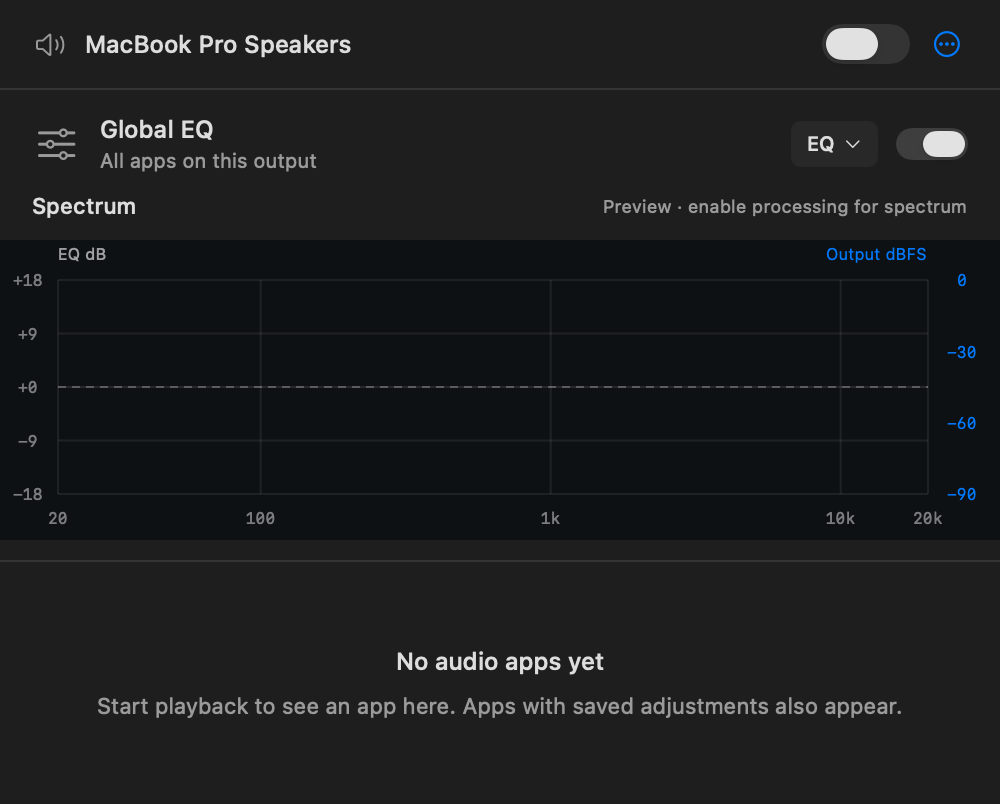
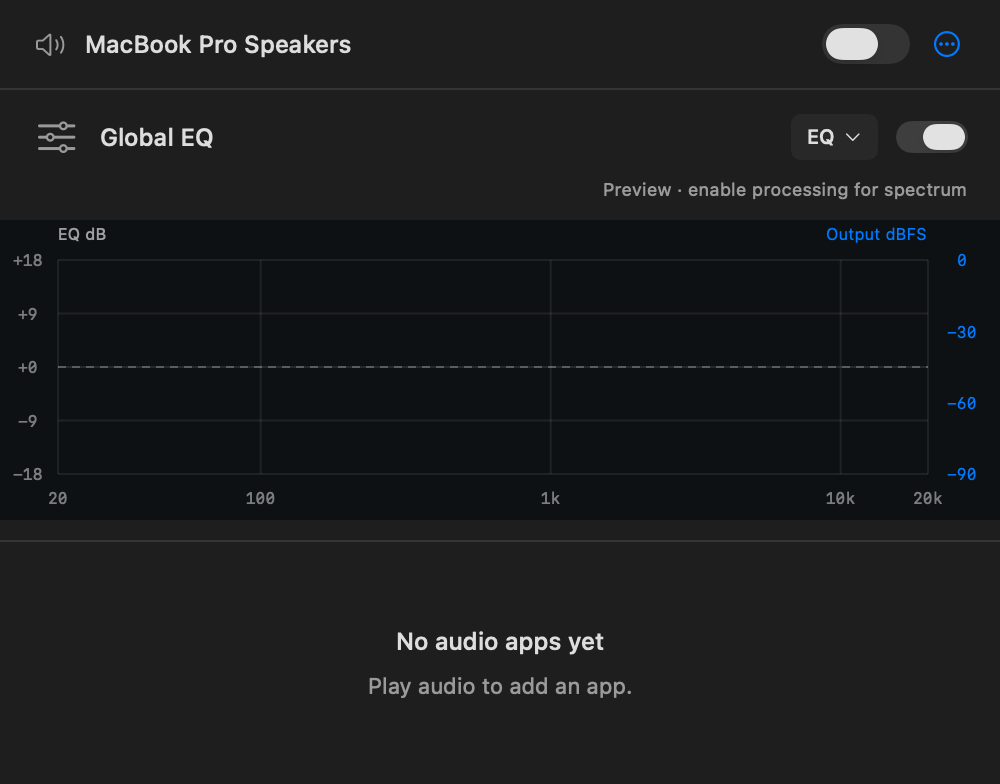
Trim redundant mixer labels and move EQ explanation into tooltip

diff --git a/QEQ/App/Sources/ParametricEQView.swift b/QEQ/App/Sources/ParametricEQView.swift
@@ -36,19 +36,12 @@ struct ParametricEQView: View {
         VStack(spacing: 10) {
             if !controlsOnly {
                 HStack(spacing: 5) {
-                    Text(compact ? "Spectrum" : "Parametric EQ").font(.system(size: 11, weight: .medium))
                     Spacer()
                     if processing && !telemetry.spectrum.isEmpty {
                         Circle().fill(Color.accentColor).frame(width: 5, height: 5)
-                        Text(telemetry.simulated ? "Simulated spectrum" : (isGlobal ? "App spectra" : "Live output"))
-                            .font(.system(size: 9)).foregroundStyle(
-                                .secondary
-                            )
-                            .help(
-                                isGlobal
-                                    ? "Strongest app in each frequency bin; not a measurement of the summed system output."
-                                    : "App output after app EQ, Global EQ, volume, and limiting. The curve shows this app's EQ only."
-                            )
+                        if telemetry.simulated {
+                            Text("Simulated spectrum").font(.system(size: 9)).foregroundStyle(.secondary)
+                        }
                         if compact && telemetry.limitingDB > 0.1 {
                             Text(String(format: "Limiting −%.1f dB", telemetry.limitingDB))
                                 .font(.system(size: 9, design: .monospaced)).foregroundStyle(.orange)
@@ -70,6 +63,11 @@ struct ParametricEQView: View {
                     }
                 }
                 .padding(.horizontal, isGlobal ? 16 : 0)
+                .help(
+                    isGlobal
+                        ? "Strongest app in each frequency bin; not a measurement of the summed system output."
+                        : "App output after app EQ, Global EQ, volume, and limiting. The curve shows this app's EQ only."
+                )
                 graph.frame(height: compact ? 150 : 190)
                 if isGlobal && processing && !spectrumApps.isEmpty {
                     ScrollView(.horizontal, showsIndicators: false) {
@@ -125,26 +123,20 @@ struct ParametricEQView: View {
                     numberControl(
                         "Frequency", unit: "Hz", value: binding(\.frequency), range: 20...maxFrequency, decimals: 0)
                     numberControl("Gain", unit: "dB", value: binding(\.gain), range: -18...18, decimals: 1).disabled(
-                        !band.type.hasGain)
+                        !band.type.hasGain
+                    ).help(
+                        String(
+                            format:
+                                "%.1f dB ≈ %.0f%% amplitude in the affected range. A cut reduces audio; it does not mute it.",
+                            band.gain, 100 * pow(10, band.gain / 20)))
                     numberControl(
                         band.type.isShelf ? "Slope" : "Q", unit: "", value: binding(\.q),
                         range: 0.1...(band.type.isShelf ? 1 : 10), decimals: 2)
                 }
-                if band.type.hasGain && band.gain <= -0.1 {
-                    Text(
-                        String(
-                            format: "%.1f dB ≈ %.0f%% amplitude in the affected range, not mute.", band.gain,
-                            100 * pow(10, band.gain / 20))
-                    )
-                    .font(.system(size: 9)).foregroundStyle(.secondary)
-                    .frame(maxWidth: .infinity, alignment: .leading)
-                    .help(
-                        "Shelf gain applies away from the transition frequency; bell gain applies at its center. The spectrum shows the remaining output on a logarithmic scale."
-                    )
-                }
                 HStack(spacing: 8) {
-                    Text("Width").font(.system(size: 10)).foregroundStyle(.secondary).frame(
-                        width: 35, alignment: .leading)
+                    Text(band.type.isShelf ? "Slope" : "Width").font(.system(size: 10)).foregroundStyle(.secondary)
+                        .frame(
+                            width: 35, alignment: .leading)
                     Slider(
                         value: Binding(get: { log10(band.q) }, set: { value in edit { $0.q = pow(10, value) } }),
                         in: -1...(band.type.isShelf ? 0 : 1)

diff --git a/QEQ/App/Sources/MixerView.swift b/QEQ/App/Sources/MixerView.swift
@@ -70,7 +70,7 @@ struct MixerView: View {
                         VStack(spacing: 8) {
                             Text("No audio apps yet").font(
                                 .system(size: 12, weight: .medium))
-                            Text("Start playback to see an app here. Apps with saved adjustments also appear.")
+                            Text("Play audio to add an app.")
                                 .font(.system(size: 11)).foregroundStyle(.secondary).multilineTextAlignment(.center)
                         }.padding(30)
                     }
@@ -96,11 +96,7 @@ struct MixerView: View {
             HStack(spacing: 9) {
                 Image(systemName: "slider.horizontal.3").font(.system(size: 19)).frame(width: 25)
                     .foregroundStyle(.secondary)
-                VStack(alignment: .leading, spacing: 2) {
-                    Text("Global EQ").font(.system(size: 12, weight: .medium))
-                    Text(model.globalEQ.enabled ? "All apps on this output" : "Global EQ bypassed")
-                        .font(.system(size: 10)).foregroundStyle(.secondary)
-                }
+                Text("Global EQ").font(.system(size: 12, weight: .medium))
                 Spacer()
                 Button {
                     model.selectEQ(MixerModel.globalEQID)
@@ -154,9 +150,9 @@ struct MixerView: View {
                 }
                 VStack(alignment: .leading, spacing: 2) {
                     Text(app.name).font(.system(size: 12, weight: .medium)).lineLimit(1)
-                    Text(status(app, settings: settings)).font(.system(size: 10)).foregroundStyle(.secondary).lineLimit(
-                        1
-                    ).help(status(app, settings: settings))
+                    if let status = status(app, settings: settings) {
+                        Text(status).font(.system(size: 10)).foregroundStyle(.secondary).lineLimit(1).help(status)
+                    }
                 }
                 Spacer()
                 Button {
@@ -226,7 +222,6 @@ struct MixerView: View {
         let fraction = max(0, min(1, (db + 60) / 60))
         let label = !available ? "—" : (peak > 0 ? String(format: "%.0f dBFS", db) : "−∞ dBFS")
         return HStack(spacing: 7) {
-            Text("Output").foregroundStyle(.tertiary)
             GeometryReader { geometry in
                 ZStack(alignment: .leading) {
                     Capsule().fill(Color.secondary.opacity(0.12))
@@ -245,15 +240,15 @@ struct MixerView: View {
                     ? "Live output peak after app volume, mute, and both EQs. Meter scale: −60 to 0 dBFS."
                     : "Turn on the master switch to show live output levels. Bypass releases all audio taps.")
     }
-    private func status(_ app: AudioApplication, settings: MixerSettings) -> String {
-        if !settings.enabled && !(model.enabled && model.globalEQ.hasEnabledEQ) { return "App bypassed" }
-        if !model.enabled { return "System bypass" }
+    private func status(_ app: AudioApplication, settings: MixerSettings) -> String? {
+        if !settings.enabled && !(model.enabled && model.globalEQ.hasEnabledEQ) { return nil }
+        if !model.enabled { return nil }
         if let message = model.snapshot.routeMessages[app.id] { return message }
         if model.snapshot.active.contains(app.id) {
             if !settings.enabled { return "Global EQ only" }
-            return settings.muted ? "Muted" : "Processing"
+            return nil
         }
-        if settings.isFlat { return app.playing ? "Playing · original audio" : "Idle · original audio" }
+        if settings.isFlat { return app.playing ? nil : "Idle" }
         return "Starting…"
     }
 }

diff --git a/docs/DEVELOPMENT.md b/docs/DEVELOPMENT.md
@@ -30,7 +30,7 @@ Permission is first requested when processing or live spectrum needs an app audi
 - EQ: five configurable bands, 20 Hz–20 kHz (limited to 45% of sample rate), ±18 dB. Bell, low/high shelf, and 12 dB/octave low/high cut filters. Bell/cut Q spans 0.1–10; shelf slope spans 0.1–1. Each band can be bypassed. Boosts raise their selected frequencies without fixed full-band attenuation. Stereo-linked sample-peak protection reduces gain only when output would exceed full scale, then releases over 50 ms; it adds no lookahead or playback buffering. The live “Limiting” indicator shows reduction. Lower app volume when more headroom is needed. This is sample-peak protection, not an oversampled true-peak limiter. Volume is 0–100%.
 - Drag numbered graph handles to change frequency/gain. Click a band, enter exact frequency/gain/Q values, or use the width slider. White is the filter response (EQ dB, before app volume and peak protection); a dashed line indicates a preview while bypassed. The system accent color fills the live processed-output spectrum (−90…0 dBFS). Double-click a numbered handle to restore that band’s defaults.
 - Global EQ spans the popup width with its expanded controls attached beneath the graph, above the scrolling app list. Only its visualizer collapses while an app's EQ is expanded; the global header, bypass switch, and EQ button remain available. The visualizer returns when the app editor closes, and global processing stays active throughout. EQ layout updates without geometry animation: the app list fills the remaining space inside a bounded popup, while incoming content slides down 24 points and fades in inside clipped bounds, and chevrons rotate. Reduce Motion disables those decorative animations. The popup fits its content up to 1,000 points or the available screen height; search is omitted to leave more room for apps. Its response line is subdued. Collapsed app rows show live output-peak meters (−60…0 dBFS), after volume, mute, and both EQs. Global bypass releases the taps, so meters show unavailable rather than fabricated activity.
-- The minimum band gain is −18 dB, not silence: it leaves about 13% amplitude in the affected range. A logarithmic spectrum still shows that remaining energy; the controls display this amplitude relationship when cutting.
+- The minimum band gain is −18 dB, not silence: it leaves about 13% amplitude in the affected range. A logarithmic spectrum still shows that remaining energy; the Gain tooltip explains this amplitude relationship.
 - The optional 16,384-sample Hann-window spectrum uses Accelerate off the audio thread at ~15 fps. Atomic snapshots never delay playback. At 48 kHz the analysis window covers about 341 ms of recent sound; this affects visual settling, not playback latency. Frequency bins use interpolated boundaries, and there is no extra peak hold to conceal EQ cuts or mute. Both the EQ-gain (left) and output-dBFS (right) scales are labeled; the frequency axis is logarithmic. Stereo powers are combined without phase cancellation. While the popup is open and the main mixer is enabled, playing apps acquire neutral routes as needed for analysis, even with flat EQ. Closing it releases analysis-only routes. The Global EQ graph overlays up to six app spectra with matching labels. Each trace uses a cached dominant icon hue keyed by app identity, or a deterministic fallback for monochrome/missing icons, so playback and list changes do not reassign colors; its filled envelope is the strongest app in each frequency bin, not a phase-aligned measurement of the final mixed output. Per-app spectra include both app and global processing. Global bypass always releases all routes.
 - Chrome/Electron helper clients resolve to their outer application’s name, icon, and bundle ID. Legacy helper-key settings migrate to that app; existing parent settings take precedence.
 - App discovery runs once per second. Helpers nested in a containing app are grouped with it. Saved/paused apps remain visible but acquire no route until playing to the selected output. Pausing releases the route. New audio processes and output changes rebuild affected routes; switching outputs may cause a brief transition. Pause/resume and sleep/wake are handled.

diff --git a/CHANGELOG.md b/CHANGELOG.md
@@ -2,6 +2,8 @@
 
 ## Unreleased
 
+- Remove redundant meter, global-scope, normal-processing, and graph labels; keep units and actionable states, and move the cut/amplitude explanation into the Gain tooltip.
+
 - Use a monochrome slider mark matching the app icon in the menu bar; hide the options-menu caret.
 - Rename the package, modules, targets, tests, and CI/release paths to QEQ while preserving the existing bundle identity.
 
